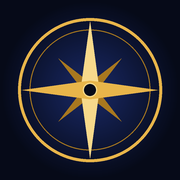
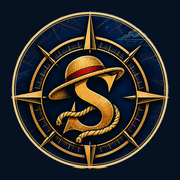
Reverso oficial en las cartas bloqueadas y emblema S como identidad
- Cartas bloqueadas con el reverso oficial (WebP, un único recurso), oscurecido un 25 %,
  número arriba y candado dorado abajo; sin siluetas ni marcos anteriores
- Giro de la carta al aparecer desbloqueada en el álbum; reverso oficial en la animación de desbloqueo
- Emblema de la S con sombrero en la cabecera, en la ficha de capitán y en los iconos de la app

Claude-Session: https://claude.ai/code/session_01RKqP5b5CRovyCndC1JQ6RS

diff --git a/style.css b/style.css
@@ -29,9 +29,9 @@ button{font:inherit;color:inherit;cursor:pointer;border:0;background:none}
 
 /* ---------- barra superior ---------- */
 .top{display:flex;align-items:center;justify-content:space-between;gap:10px;padding:6px 2px 14px}
-.brand{font-family:var(--title);font-weight:900;font-size:21px;letter-spacing:.12em}
-.brand small{font-family:var(--ui);font-weight:600;font-size:12px;letter-spacing:.35em;color:var(--muted);-webkit-text-fill-color:var(--muted);margin-left:6px}
-.top-r{display:flex;gap:8px;align-items:center}
+.brand{font-family:var(--title);font-weight:900;font-size:18px;letter-spacing:.08em}
+.brand small{font-family:var(--ui);font-weight:600;font-size:11px;letter-spacing:.2em;color:var(--muted);-webkit-text-fill-color:var(--muted);margin-left:6px}
+.top-r{flex:none;display:flex;gap:6px;align-items:center}
 .pill{position:relative;border-radius:999px;padding:5px 13px;font-size:15px;font-weight:600;color:var(--gold-2);background:rgba(6,10,24,.75);
   box-shadow:0 0 0 1px rgba(232,181,74,.5) inset,0 0 18px rgba(232,181,74,.15)}
 .icon-btn{width:36px;height:36px;border-radius:50%;display:grid;place-items:center;background:rgba(6,10,24,.75);box-shadow:0 0 0 1px rgba(232,181,74,.4) inset;color:var(--gold-2)}
@@ -136,11 +136,6 @@ button{font:inherit;color:inherit;cursor:pointer;border:0;background:none}
    repeating-linear-gradient(45deg,rgba(232,181,74,.045) 0 2px,transparent 2px 9px),
    linear-gradient(160deg,#16255a,#081030 60%,#040815);
   box-shadow:0 0 0 1.5px #2b3a72 inset,0 0 0 4px #040815 inset,0 0 0 5px rgba(232,181,74,.5) inset}
-.locked .back{background:linear-gradient(180deg,#0d1636,#060b1d 70%,#03060f)}
-.locked .sil{position:absolute;left:12%;right:12%;bottom:0;height:78%;opacity:.95}
-.locked .fog{position:absolute;inset:auto 0 0 0;height:55%;background:linear-gradient(0deg,rgba(120,140,210,.28),rgba(120,140,210,0))}
-.locked .num{position:absolute;top:7%;left:0;right:0;text-align:center;font-family:var(--title);font-weight:800;font-size:13px;letter-spacing:.2em;color:rgba(247,217,139,.55)}
-.locked .lock{position:absolute;left:50%;top:44%;width:22%;transform:translate(-50%,-50%);opacity:.75;filter:drop-shadow(0 0 8px rgba(232,181,74,.5))}
 
 /* anverso: marco metálico según rareza */
 .front{background:var(--frame,var(--metal-gold));box-shadow:0 0 0 1px rgba(0,0,0,.6) inset}
@@ -165,7 +160,6 @@ button{font:inherit;color:inherit;cursor:pointer;border:0;background:none}
 .front .edge{z-index:4;background:linear-gradient(110deg,transparent 35%,rgba(255,255,255,.55) 48%,transparent 60%);background-size:300% 100%;
   -webkit-mask:linear-gradient(#000 0 0) content-box,linear-gradient(#000 0 0);-webkit-mask-composite:xor;mask-composite:exclude;padding:4%;animation:edge 5s ease-in-out infinite}
 @keyframes edge{0%,60%{background-position:150% 0}100%{background-position:-50% 0}}
-.card.new{animation:pop .8s cubic-bezier(.2,1.6,.4,1)}
 @keyframes pop{0%{transform:scale(.6);filter:brightness(2.5)}100%{transform:scale(1)}}
 
 /* carta con ilustración completa */
@@ -467,8 +461,10 @@ a.icon-btn{text-decoration:none}
 
 /* ================= FASE 1: identidad Collector's Edition ================= */
 body{background:var(--navy-1)}
-.brand{display:flex;flex-wrap:wrap;align-items:baseline;text-decoration:none;line-height:1}
-.brand em{flex-basis:100%;font-style:normal;font-family:var(--title);font-size:9px;letter-spacing:.32em;color:var(--gold);margin-top:5px}
+.brand{display:flex;align-items:center;gap:9px;text-decoration:none;line-height:1;min-width:0}
+.brand .bt{display:flex;flex-direction:column;min-width:0}
+.brand .bl{display:flex;align-items:baseline;white-space:nowrap}
+.brand em{font-style:normal;white-space:nowrap;font-family:var(--title);font-size:8.5px;letter-spacing:.18em;color:var(--gold);margin-top:5px}
 
 /* marco ornamental dorado reutilizable */
 .ornate{position:relative;border-radius:16px;background:linear-gradient(180deg,rgba(20,44,67,.92),rgba(6,18,34,.94));
@@ -618,3 +614,23 @@ body{background:var(--navy-1)}
 .d-page h3{margin:0 0 6px;font-family:'Caveat',cursive;font-size:28px}
 .d-page p{margin:6px 0;font-size:17px;line-height:1.55}
 .d-page img{width:100%;border-radius:6px;margin-bottom:10px;box-shadow:0 4px 12px rgba(0,0,0,.35)}
+
+/* ---------- reverso oficial (cartas bloqueadas) ---------- */
+.face.rev{background:none;box-shadow:none}
+.face.rev img{display:block;width:100%;height:100%;object-fit:contain;-webkit-user-select:none;user-select:none}
+.face.rev.dim img{filter:brightness(.75)}
+.card.locked{filter:drop-shadow(0 6px 12px rgba(0,0,0,.5))}
+.rnum{position:absolute;top:5%;left:50%;transform:translateX(-50%);padding:1px 8px;border-radius:6px;white-space:nowrap;
+  font-family:var(--title);font-weight:800;font-size:clamp(10px,2.8vw,13px);letter-spacing:.12em;color:#f3dfa8;background:rgba(3,10,20,.72);box-shadow:0 0 0 1px rgba(232,202,133,.45)}
+.rlock{position:absolute;bottom:5%;left:50%;width:15%;aspect-ratio:1;transform:translateX(-50%);display:grid;place-items:center;filter:drop-shadow(0 2px 4px rgba(0,0,0,.8)) drop-shadow(0 0 6px rgba(232,202,133,.5))}
+.rlock svg{width:100%;height:100%}
+/* giro al aparecer desbloqueada en el álbum */
+.grid .card.new{animation:flipin 1s cubic-bezier(.3,1.25,.4,1) both}
+@keyframes flipin{0%{transform:rotateY(180deg) scale(1.05)}100%{transform:rotateY(0)}}
+.flipcover{position:absolute;inset:0;z-index:9;transform:rotateY(180deg);animation:coverhide 1s linear both;pointer-events:none}
+.flipcover img{width:100%;height:100%;object-fit:contain}
+@keyframes coverhide{0%,42%{opacity:1}43%,100%{opacity:0}}
+/* emblema */
+.brand-em{flex:none;width:36px;height:36px;filter:drop-shadow(0 0 6px rgba(232,202,133,.35))}
+.cap-emblem{width:112px;margin:0 auto 8px}
+.cap-emblem img{display:block;width:100%;filter:drop-shadow(0 8px 18px rgba(0,0,0,.6)) drop-shadow(0 0 16px rgba(232,202,133,.3))}

diff --git a/app.js b/app.js
@@ -4,7 +4,7 @@
 
 import { startBackground, pauseBackground, requestGyro, unlockAudio, sfx, haptic, isSoundOn, setSound, waveFlag } from './fx.js';
 
-const VERSION = '0.5.0';
+const VERSION = '0.5.1';
 const KEY = 'sampiece.v1';
 const $ = (s, el = document) => el.querySelector(s);
 const root = document.getElementById('root');
@@ -159,6 +159,9 @@ const ASSETS = {
   intro: '/assets/cinematicas/intro.webp',
   mapa: '/assets/mapa/mapa.webp',
   barcoInicio: '/assets/fondos/barco-inicio.webp',
+  reverso: '/assets/marcos/reverso.webp',
+  reversoMini: '/assets/marcos/reverso-mini.webp',
+  emblema: '/assets/iconos/emblema.webp',
 };
 const ISLAS = [
   { n: 1, nombre: 'Isla del Origen', x: .19, y: .20 }, { n: 2, nombre: 'Isla del Volcán', x: .49, y: .17 },
@@ -190,8 +193,9 @@ function cardHTML(card, { link = true, forceFront = false, isNew = false } = {})
   const open = forceFront || !!S.unlocked[card.num];
   const tag = link ? 'a' : 'div';
   const href = link ? ` href="#carta-${card.num}"` : '';
-  if (!open) return `<${tag} class="card locked"${href} aria-label="Carta ${card.num} bloqueada"><div class="face back">
-    <div class="num">Nº ${card.num}</div><div class="sil">${ICON.shadow}</div><div class="fog"></div><div class="lock">${ICON.lock}</div></div></${tag}>`;
+  if (!open) return `<${tag} class="card locked"${href} aria-label="Carta ${card.num} bloqueada"><div class="face rev dim">
+    <img src="${link ? ASSETS.reversoMini : ASSETS.reverso}" alt="" decoding="async" draggable="false">
+    <span class="rnum">Nº ${card.num}</span><span class="rlock">${ICON.lock}</span></div></${tag}>`;
   const name = card.nombre || `Carta ${card.num}`;
   const rc = rarityClass(card);
   if (card.imagen) { // carta con ilustración propia: la imagen es la carta entera
@@ -207,16 +211,20 @@ function cardHTML(card, { link = true, forceFront = false, isNew = false } = {})
     <div class="holo"></div><div class="glare"></div><div class="edge"></div>${rc === 'r-samuel' ? SAM_STARS : ''}</div></${tag}>`;
 }
 function ribbon(card, link) { const u = S.unlocked[card.num]; return link && u && !u.v ? '<div class="ribbon">NUEVA</div>' : ''; }
+function flipInNew() {
+  const el = document.querySelector('.grid .card.new'); if (!el) return;
+  const cover = document.createElement('div'); cover.className = 'flipcover';
+  cover.innerHTML = `<img src="${ASSETS.reversoMini}" alt="">`; el.appendChild(cover);
+  el.addEventListener('animationend', () => { cover.remove(); el.classList.remove('new'); }, { once: true });
+}
 function backHTML() {
-  return `<div class="card"><div class="face back" style="display:grid;place-items:center">
-    <div style="text-align:center"><div class="gold-text" style="font-family:var(--title);font-weight:900;font-size:clamp(20px,6vw,30px);letter-spacing:.08em">SAM<br>PIECE</div>
-    <div style="width:46%;margin:10px auto 0">${ICON.compass.replace('class="compass"', '')}</div></div></div></div>`;
+  return `<div class="card"><div class="face rev"><img src="${ASSETS.reverso}" alt="" draggable="false"></div></div>`;
 }
 
 // ---------- vistas ----------
 function shell(active, inner) {
   root.innerHTML = `<div class="app">
-    <div class="top"><a class="brand" href="#inicio"><span class="gold-text">SAM PIECE</span><small>3D</small><em>EDICIÓN PRIVADA · 001/001</em></a>
+    <div class="top"><a class="brand" href="#inicio"><img class="brand-em" src="${ASSETS.emblema}" alt=""><span class="bt"><span class="bl"><span class="gold-text">SAM PIECE</span><small>3D</small></span><em>EDICIÓN PRIVADA · 001/001</em></span></a>
       <div class="top-r"><a class="icon-btn" href="#rocola" aria-label="Rocola">${ICON.music}</a><button class="icon-btn" id="snd" aria-label="Sonido">${isSoundOn() ? ICON.soundOn : ICON.soundOff}</button><div class="pill" id="cnt">${count()}/${S.cards.length}</div></div></div>
     <div id="view" class="fade-in">${inner}</div></div>
     <nav class="nav"><div class="nav-in">
@@ -297,6 +305,7 @@ function viewColeccion() {
     ${sobreFiltro || personaFiltro ? `<div class="filter-note"><span>${personaFiltro ? esc(personaFiltro) : 'Sobre ' + sobreFiltro} · ${visibles.length} carta${visibles.length === 1 ? '' : 's'}</span><button class="btn ghost small" id="clearf">Ver todas</button></div>` : ''}
     ${S.storageOK ? '' : '<p><span class="tag bad">Sin guardado</span> Este navegador no permite guardar la colección (¿modo privado?).</p>'}
     <div class="grid">${visibles.map(c => cardHTML(c, { isNew: S.lastNew === c.num })).join('')}</div>`);
+  flipInNew();
   const nb = $('#nob'); if (nb) nb.onclick = () => { try { sessionStorage.setItem('sp-nobanner', '1'); } catch { } $('#banner').remove(); };
   $('#clearf')?.addEventListener('click', () => { sobreFiltro = null; personaFiltro = null; sfx('tap'); viewColeccion(); });
   const map = $('#map');
@@ -662,7 +671,7 @@ function viewPerfil() {
   const bit = S.cards.filter(c => S.unlocked[c.num]).sort((a, b) => S.unlocked[b.num].t.localeCompare(S.unlocked[a.num].t));
   shell('perfil', `
     <div class="captain">
-      <div class="cap-flag">${EMBLEM.replace('width="600" height="400"', 'width="100%"')}</div>
+      <div class="cap-emblem"><img src="${ASSETS.emblema}" alt="Emblema SAM PIECE"></div>
       <div class="cap-k">CAPITÁN SAMUEL</div>
       <div class="cap-t gold-text emboss">${esc(ti.t)}</div>
       <div class="cap-stats"><div><b class="gold-text">${n}</b><span>Cartas</span></div><div><b class="gold-text">${sobres}</b><span>Sobres</span></div><div><b class="gold-text">${logrosHechos}</b><span>Logros</span></div></div>

diff --git a/sw.js b/sw.js
@@ -1,6 +1,6 @@
 // Service worker de SAM PIECE 3D: app disponible sin conexión.
 // Al cambiar archivos de la app, sube CACHE para que los móviles descarguen la versión nueva.
-const CACHE = 'sampiece-0.5.0';
+const CACHE = 'sampiece-0.5.1';
 const SHELL = ['/', '/index.html', '/app.js', '/fx.js', '/style.css', '/cards.json', '/manifest.webmanifest',
   '/icons/icon-192.png', '/icons/icon-512.png', '/icons/apple-touch-icon.png'];
 
